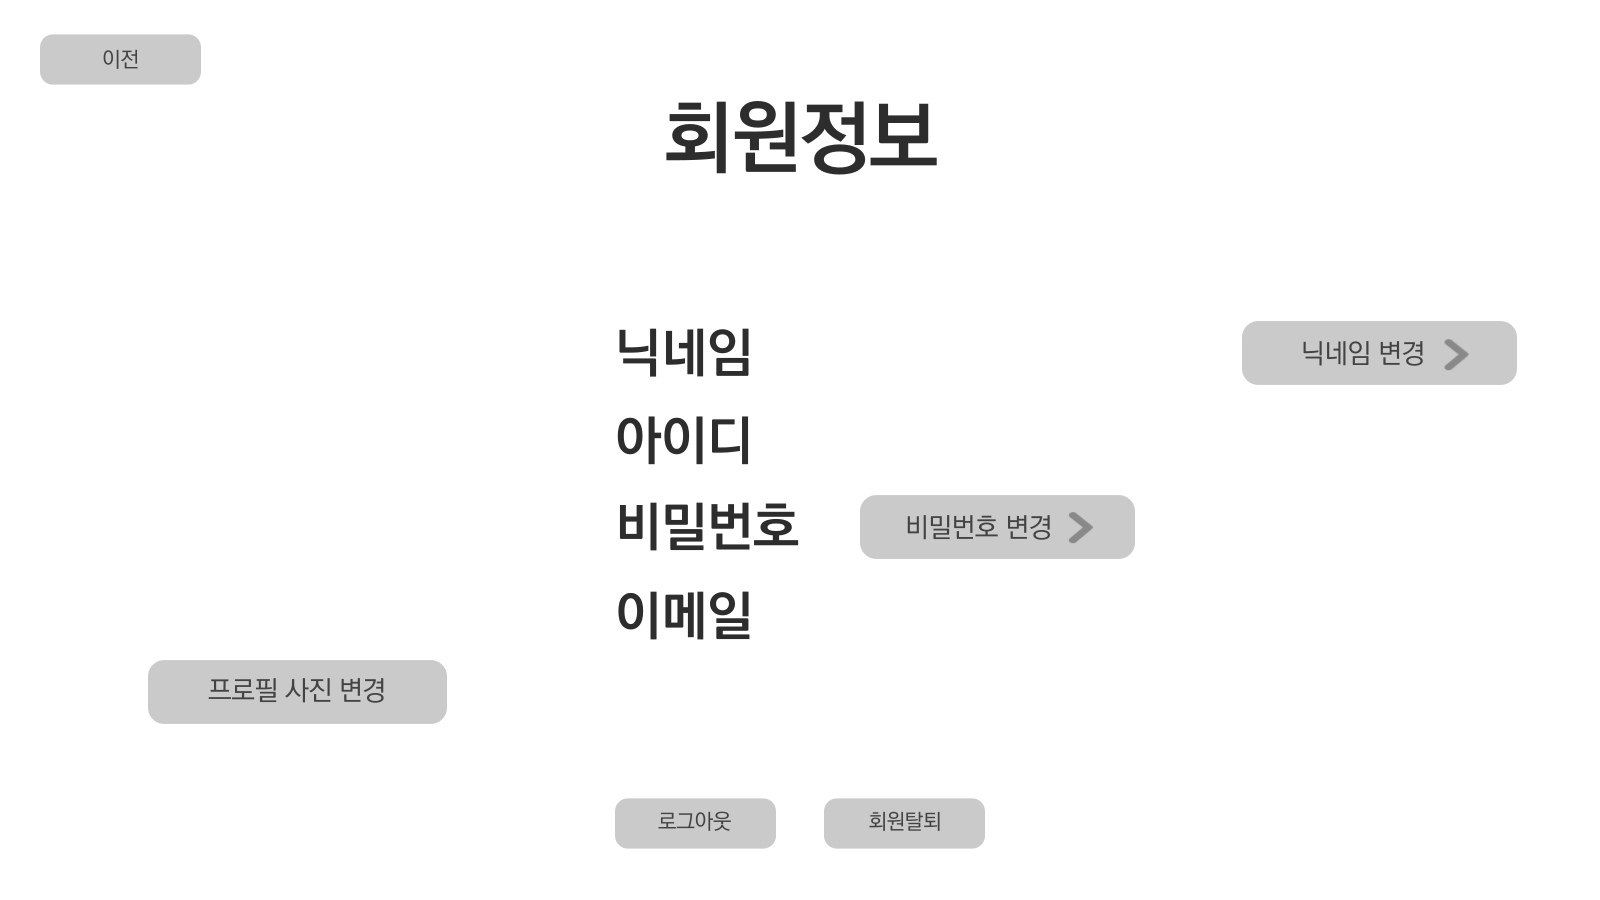
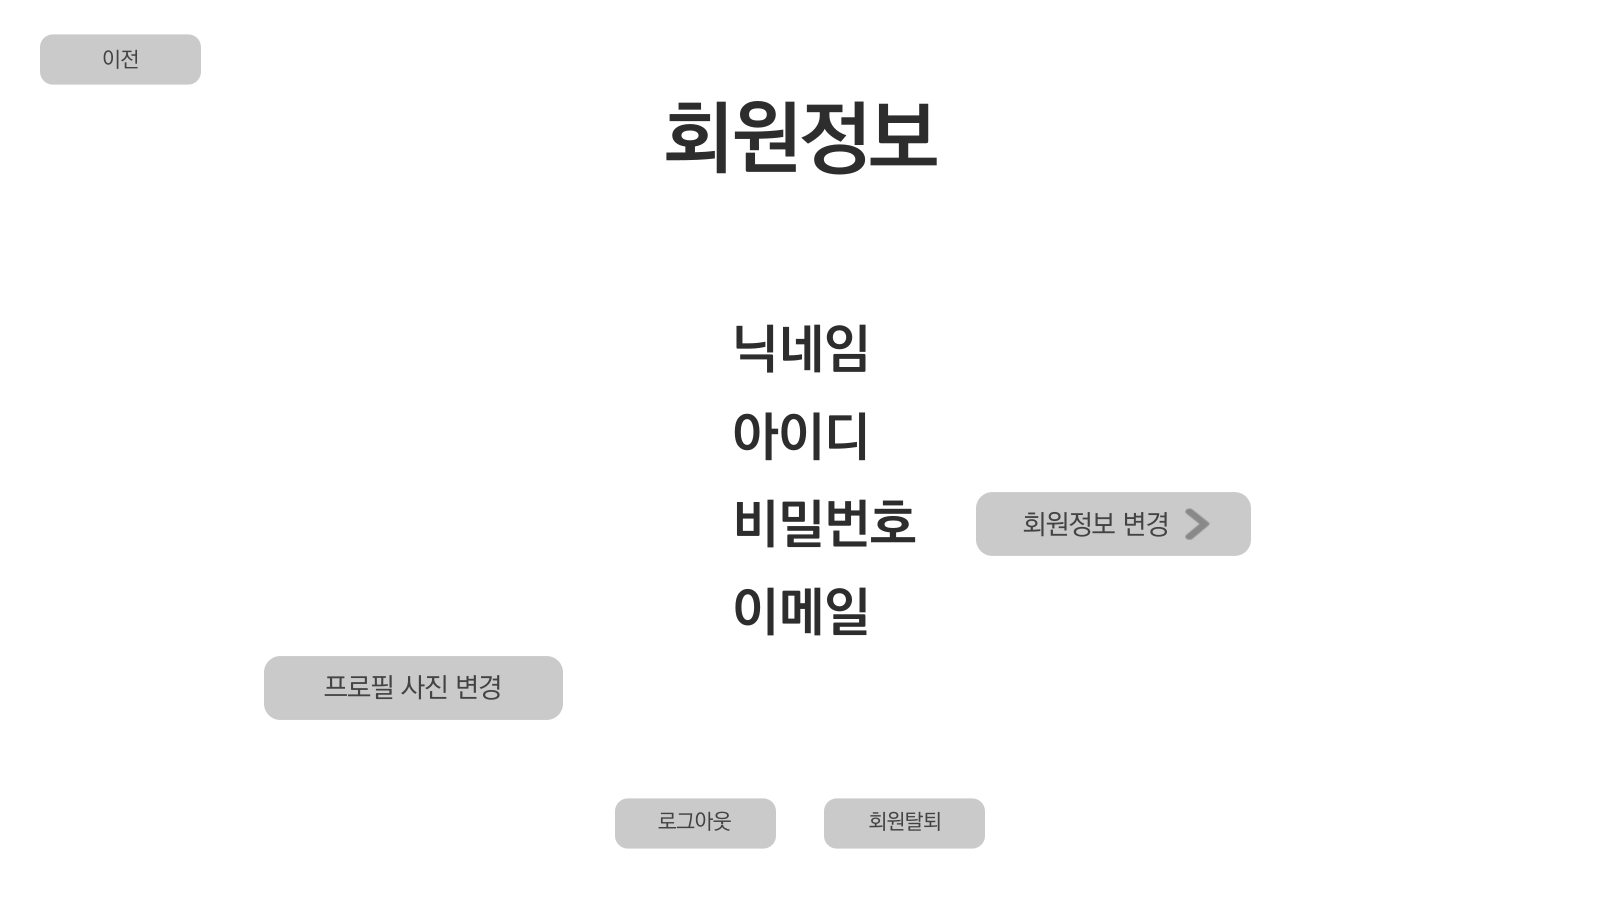
프로젝트 수정

diff --git a/Villim/src/view/Profile_Controller.java b/Villim/src/view/Profile_Controller.java
@@ -89,27 +89,14 @@ public class Profile_Controller implements Initializable {
 		}
 	}
 
-	// 닉네임 변경 화면 팝업
+	// 회원정보 변경 화면 전환
 	@FXML
-	private Button popUpNickNameChangeBtn;
-	@FXML
-	private Stage popUpNickNameStage;
+	private Button changeProfileEditBtn;
 
-	public void popUpNickNameChange() {
-		methodUtil.popUpScene(popUpNickNameChangeBtn, popUpNickNameStage, "/view/NickNameChange_Layout.fxml", "닉네임 변경");
+	public void changeProfileEdit() {
+		methodUtil.changeScene("/view/ProfileEdit_Layout.fxml", changeProfileEditBtn);
 	}
-
-	// 비밀번호 변경 화면 팝업
-	@FXML
-	private Button popUpPasswordChangeBtn;
-	@FXML
-	private Stage popUpPasswordStage;
-
-	public void popUpPasswordChange() {
-		methodUtil.popUpScene(popUpPasswordChangeBtn, popUpPasswordStage, "/view/PasswordChange_Layout.fxml",
-				"비밀번호 변경");
-	}
-
+	
 	// 로그아웃
 	@FXML
 	private Button logoutBtn;
